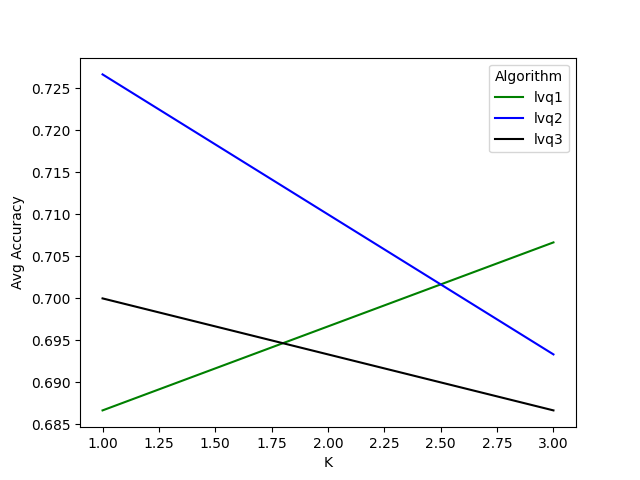
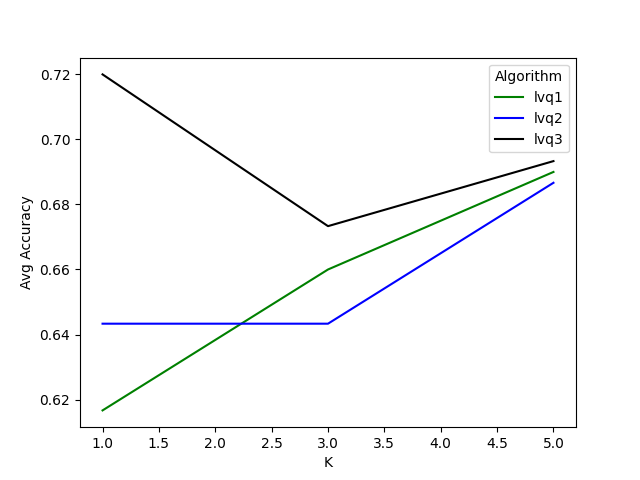
Shuffling dataset, creating results for k = 5 and updating README.md

diff --git a/Lista2/k_fold_cross_validation.py b/Lista2/k_fold_cross_validation.py
@@ -5,7 +5,7 @@ import knn_no_weight
 import math
 import os
 import time
-import lvq1
+import lvq1, lvq2, lvq3
 from sklearn.preprocessing import StandardScaler
 from sklearn.neighbors import KNeighborsClassifier
 from sklearn.metrics import classification_report, confusion_matrix
@@ -16,7 +16,7 @@ k_fold = 10
 reports = {}
 matrices = {}
 
-ks = [1, 3]
+ks = [1, 3, 5]
 
 def train_and_get_reports(algorithm, dataset_index, trainer, prototype_gen):
     dataset = get_dataset(dataset_index)
@@ -97,8 +97,8 @@ def process_reports():
 def train_and_test_on_dataset_and_save_results(dataset_index):
     dataset_name = datasets[dataset_index]
     train_and_get_reports("lvq1", dataset_index, knn_no_weight, lvq1)
-    #train_and_get_reports("lvq2", dataset_index, knn_no_weight, lvq2)
-    #train_and_get_reports("lvq3", dataset_index, knn_no_weight, lvq3)
+    train_and_get_reports("lvq2", dataset_index, knn_no_weight, lvq2)
+    train_and_get_reports("lvq3", dataset_index, knn_no_weight, lvq3)
     reports_avg = process_reports()
 
     folder_name = "results/" + dataset_name + "/" 

diff --git a/Lista2/plot_results.py b/Lista2/plot_results.py
@@ -13,9 +13,8 @@ ks = cv.ks
 algorithms = ['lvq1', 'lvq2', 'lvq3']
 
 def train_and_plot_graphs(dataset_index):
-        cv.train_and_get_reports(algorithms[0], dataset_index, knn_no_weight, lvq1)
-        cv.train_and_get_reports(algorithms[1], dataset_index, knn_no_weight, lvq2)
-        cv.train_and_get_reports(algorithms[2], dataset_index, knn_no_weight, lvq3)
+        cv.train_and_test_on_dataset_and_save_results(0)
+        cv.train_and_test_on_dataset_and_save_results(1)
         reports_avg = cv.process_reports()
 
         algorithms_order = []

diff --git a/Lista2/dataset_reader.py b/Lista2/dataset_reader.py
@@ -7,7 +7,8 @@ number_of_attributes = [21, 94]
 def get_dataset(dataset_index):
     data = arff.loadarff('datasets/' + datasets[dataset_index])
     df = pd.DataFrame(data[0])
-    df = df.dropna(how='any',axis=0) 
+    df = df.dropna(how='any',axis=0)
+    df = df.sample(frac = 1)
     if dataset_index == 0:
         df['defects'] = df['defects'].astype(str)
     elif dataset_index == 1:

diff --git a/Lista2/README.md b/Lista2/README.md
@@ -1,0 +1,13 @@
+# Lista 2 - LVQ
+* Avaliação usando 10-Fold Cross-Validation.
+* Aplicação dos algoritmos, todos com distância euclidiana como função avaliativa:
+    * k-NN e distância euclidiana;
+* Variar o parâmetro k em 1, 3 e 5.
+* Gerando protótipos com LVQ1, LVQ2.1 e LVQ3
+* Datasets provenientes de [PROMISE DATASETS PAGE](http://promise.site.uottawa.ca/SERepository/datasets-page.html). Datasets escolhidos:
+    * PC1/Software defect prediction
+    * Class-level data for KC1 (Defective or Not)/Software defect prediction
+
+Para gerar os resultados em txt e gráficos, rodar plot_results.py. A código que roda os diferentes algoritmos e os avalia está em k_fold_cross_validation.train_and_get_reports:
+* dataset_index = 0 é o pc1.arff
+* dataset_index = 1 é o kc1-class-level-defectiveornot.arff

diff --git a/README.md b/README.md
@@ -4,3 +4,5 @@ Repositório criado para os códigos fontes referentes às listas de exercícios
 
 ## Lista 1 - KNN
 [Link](https://www.overleaf.com/read/zmfgqmbhpnbc) para o relatório em Latex.
+
+## List 2 - LVQ
